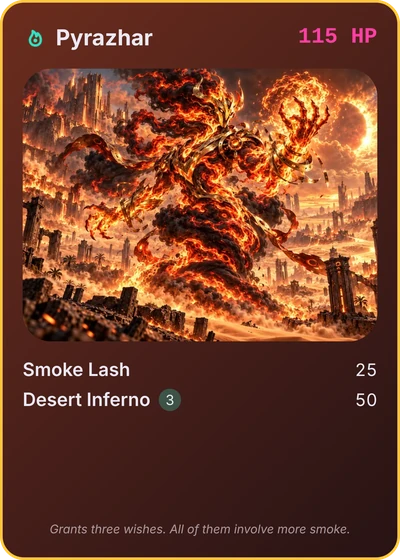
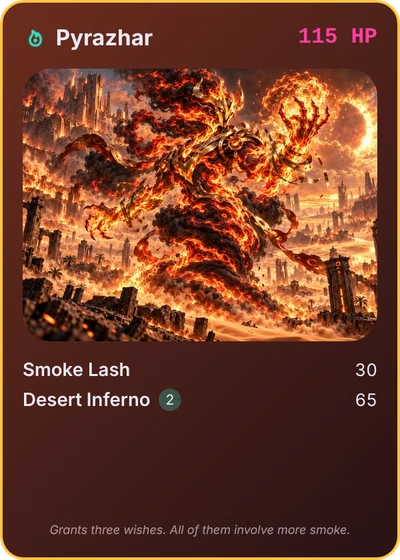
Legendaries: cooldowns down one (special 2, second special 3), +5 basic, +15 special, +20 second special
Claude-Session: https://claude.ai/code/session_01779WUJ8XPsEmJgTd9tY6Bx

diff --git a/server/test/game.test.js b/server/test/game.test.js
@@ -149,14 +149,14 @@ test('fusion boosts stats and unlocks a stronger second special', () => {
   }
   const f = { h: 1, b: 2, s: 3, x: true };
   assert.equal(fusedHp('apex', f), 127);                 // 115 * 1.1
-  assert.equal(fusedDmg('apex', f, 'basic'), 35);        // 25 * 1.4
-  assert.equal(fusedDmg('apex', f, 'special'), 65);      // 50 * 1.3
-  assert.equal(fusedDmg('apex', f, 'special2'), 91);     // 70 * 1.3
+  assert.equal(fusedDmg('apex', f, 'basic'), 42);        // 30 * 1.4
+  assert.equal(fusedDmg('apex', f, 'special'), 85);      // 65 * 1.3, rounded
+  assert.equal(fusedDmg('apex', f, 'special2'), 117);    // 90 * 1.3
   const s = newBattle(['apex'], ['volt'], () => 0, { apex: f });
   assert.equal(s.teams[0][0].hp, 127);
   applyMove(s, 0, 0, 'special2', 0);
-  assert.equal(s.teams[1][0].hp, 0);                     // 91 into Volt's 60
-  assert.equal(s.teams[0][0].cd2, 4);
+  assert.equal(s.teams[1][0].hp, 0);                     // 117 into Volt's 60
+  assert.equal(s.teams[0][0].cd2, 3);
   const plain = newBattle(['apex'], ['volt'], () => 0);
   assert.throws(() => applyMove(plain, 0, 0, 'special2', 0), /Unknown move/);
 });
